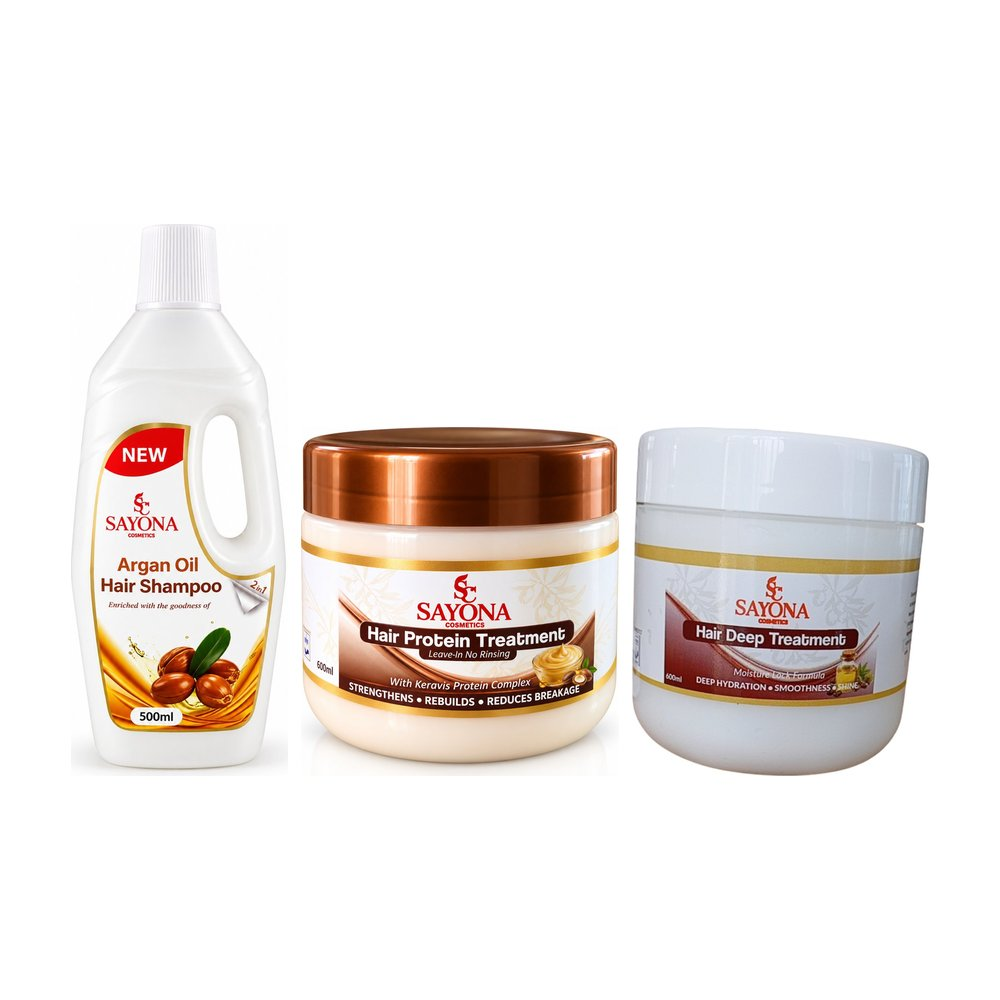
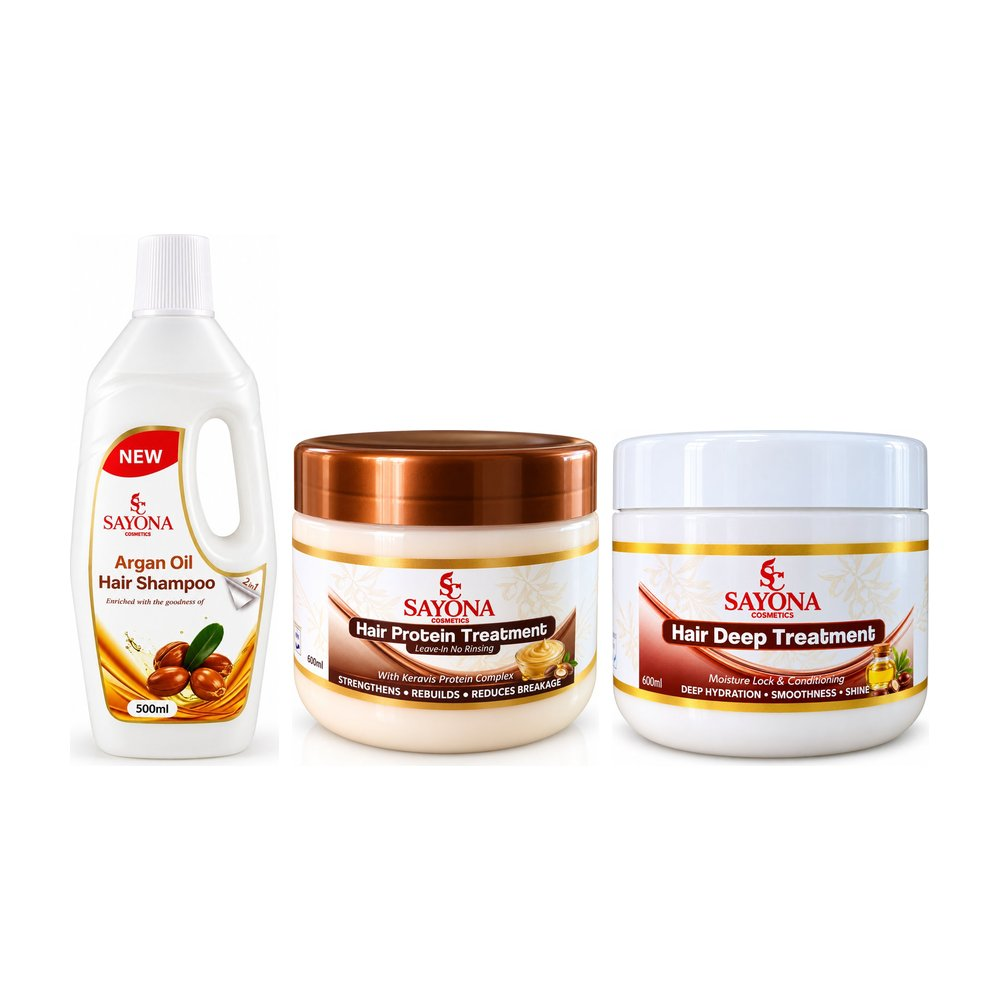
New packshot: Hair Deep Treatment
Claude-Session: https://claude.ai/code/session_012aUwVNySX9bc4vxdfX5zyF

Changed region(s): [[0.062, 0.403, 0.93, 0.775], [0.155, 0.217, 0.186, 0.31]]

diff --git a/src/data/products.js b/src/data/products.js
@@ -185,7 +185,7 @@ export const FALLBACK_PRODUCTS = [
       { size: "120 ml", price: 429 },
       { size: "250 ml", price: 699 },
       { size: "500 ml", price: 949 },
-      { size: "600 ml", price: 999 }
+      { size: "600 ml", price: 999, image: "/product-images/deep-treatment-600ml.jpg" }
     ]
   },
   {
